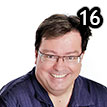
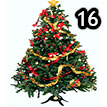
Christmas version - Find Santa

diff --git a/index.html b/index.html
@@ -2,7 +2,7 @@
 <html>
 <head>
   <meta charset="utf-8">
-  <title>Walker Egg Hunt</title>
+  <title>Find Santa</title>
 
   <link href="style/main.css" rel="stylesheet" type="text/css">
   <link rel="shortcut icon" href="favicon.ico">
@@ -19,7 +19,7 @@
 <body>
   <div class="container">
     <div class="heading">
-      <h1 class="title">Eggs</h1>
+      <h1 class="title">Find Santa</h1>
       <div class="scores-container">
         <div class="score-container">0</div>
         <div class="best-container">0</div>
@@ -27,7 +27,7 @@
     </div>
 
     <div class="above-game">
-      <p class="game-intro">Match the tiles and find the <strong>Golden Egg!</strong></p>
+      <p class="game-intro">Match the tiles, get to the North Pole and find <strong>Santa!</strong></p>
       <a class="restart-button">New Game</a>
     </div>
 
@@ -77,15 +77,16 @@
   
   <div class="container-right">
     <p class="game-explanation">
-      <strong class="important">How to play:</strong> Use your <strong>arrow keys</strong> or <strong>swipe</strong> to move the tiles. When two tiles with the same number touch, they <strong>merge into one!</strong>
+      <br/>
+      <strong class="important">How to play:</strong> Use your <strong>arrow keys</strong> or <strong>swipe</strong> to move the tiles. <br/>When two tiles with the same number touch, they <strong>merge into one!</strong>
     </p>
     <hr>
     <p>
-    <strong class="important">TO WIN:</strong> When you match tiles 11 times, you will get the Golden Egg! It is hard to reach though.
+    <strong class="important">TO WIN:</strong> When you match tiles 11 times, you will find Santa Claus! <br/>He is hard to get to, though.
     </p>
     <hr>
     <p>
-    Created by <b>Uncle Noo Noo.</b> Based on <a href="https://itunes.apple.com/us/app/1024!/id823499224" target="_blank">1024 by Veewo Studio</a> and conceptually similar to <a href="http://asherv.com/threes/" target="_blank">Threes by Asher Vollmer.</a>
+    Created by <b>Neil Bates.</b> <br/>Based on <a href="https://itunes.apple.com/us/app/1024!/id823499224" target="_blank">1024 by Veewo Studio</a> and conceptually similar to <a href="http://asherv.com/threes/" target="_blank">Threes by Asher Vollmer.</a>
     </p> 
   </div>
 

diff --git a/style/main.css b/style/main.css
@@ -116,7 +116,7 @@ hr {
   margin-bottom: 30px; }
 
 .container {
-  width: 500px;
+  width: 700px;
   margin: 0px 20px 0px 20px; 
   float: left;}
 
@@ -498,7 +498,7 @@ hr {
     margin-bottom: 10px; }
 
   .game-intro {
-    width: 55%;
+    width: 45%;
     display: block;
     box-sizing: border-box;
     line-height: 1.65; }
